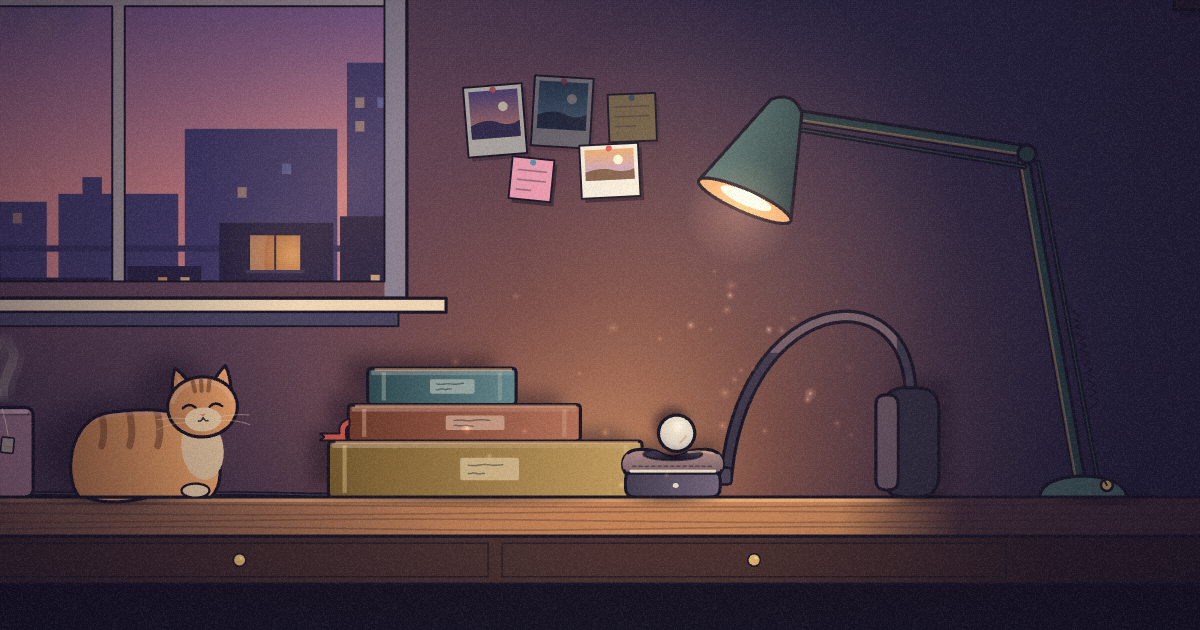
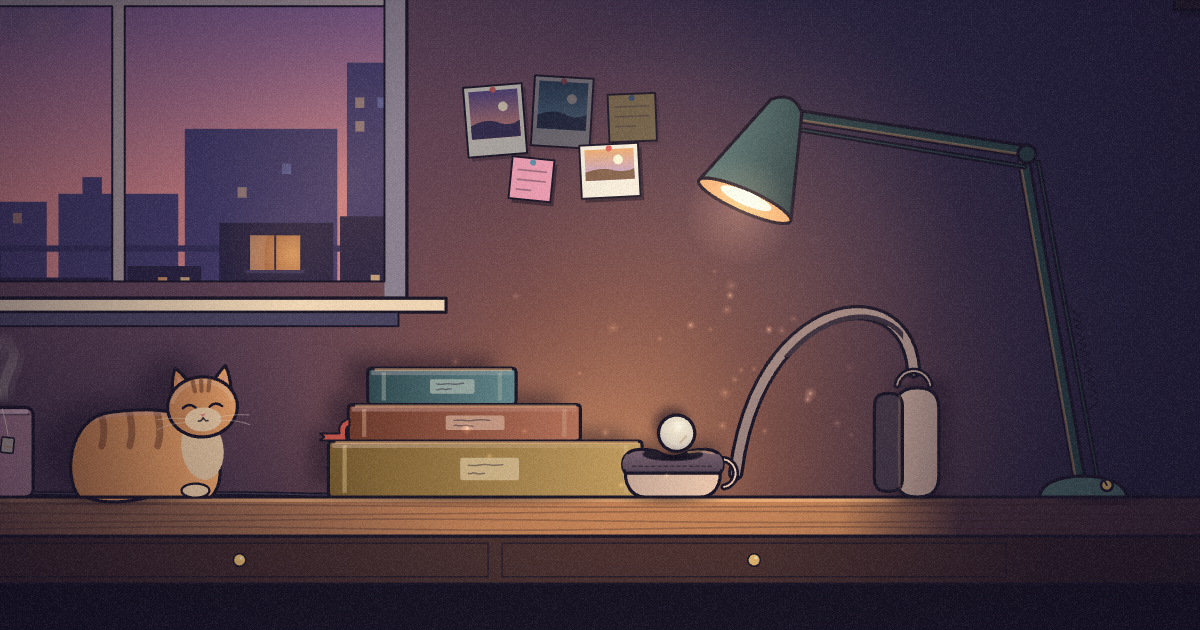
Soft Lamp: the headphones redrawn as one pair
Every cold review flagged the headphones. Redrawn in the same places (the
machine unchanged): cream shells and dark pads; the near cup a shallow bowl on
its back with the ball in its pad's dark centre; the far cup a rounded shell
on its edge, lit on the lamp side; each cup in a yoke, and a padded cream band
from yoke to yoke. Share card regenerated.

Changed region(s): [[0.4933, 0.4825, 0.8017, 0.8143]]

diff --git a/apps/rube/src/shows/versions/soft-lamp/lamp/scene.ts b/apps/rube/src/shows/versions/soft-lamp/lamp/scene.ts
@@ -520,10 +520,12 @@ function cushion(t: number): number {
   return d
 }
 
-const SHELL = '#2A2638'
-const SHELL_LIT = '#7A6A80'
-const PAD = '#3F3548'
-const PAD_LIT = '#B08A86'
+// A pair of cream headphones with dark pads, as a lofi desk has: light shells that take the lamp, dark pads that frame
+// the ball.
+const SHELL = '#4A3C4C'
+const SHELL_LIT = '#EDC9AE'
+const PAD = '#2A2232'
+const PAD_LIT = '#7A6270'
 
 /** The near cup's cushion, from the side: a soft pad with rounded shoulders and a hollow between them. */
 function cushionPath(ctx: Ctx, top: number): void {
@@ -545,62 +547,100 @@ function headphones(ctx: Ctx, lw: number, t: number): void {
   const lamp = lampAt(t)
   const warm = lampColor(t)
   const top = CUP.top + cushion(t)
-  // The band: from a yoke on the near cup's far side, up in an arch, and down onto the standing cup's crown.
-  const a = { x: CUP.x + CUP.halfW + 0.02, y: CUP.top + 0.2 }
-  const b = { x: FAR_CUP.x, y: -FAR_CUP.h + 0.04 }
-  const c1 = { x: a.x + 0.12, y: BAND_TOP - 0.18 }
-  const c2 = { x: b.x - 0.02, y: BAND_TOP - 0.34 }
+  const l = lightAt(CUP.x, -0.15) * lamp
+  // Cream reads as cream even at the pool's edge: the room's light on it, then the lamp's.
+  const shell = (k: number) => lit(SHELL, SHELL_LIT, Math.min(1, 0.32 * Math.max(0.4, lamp) + 0.75 * k))
+  // Each cup hangs in a yoke, a fork round its middle, and the band runs from yoke to yoke.
+  const w = CUP.halfW * 0.94
+  const nearYoke = { x: CUP.x + w + 0.01, y: CUP.top + 0.17, r: 0.1 }
+  const fx = FAR_CUP.x
+  const fw = FAR_CUP.halfW
+  const fh = FAR_CUP.h
+  const farYoke = { x: fx + 0.02, y: -fh, r: 0.12 }
+  const a = { x: nearYoke.x + nearYoke.r, y: nearYoke.y }
+  const b = { x: farYoke.x, y: farYoke.y - farYoke.r }
+  const c1 = { x: a.x + 0.16, y: BAND_TOP - 0.18 }
+  const c2 = { x: b.x - 0.04, y: BAND_TOP - 0.32 }
   const band = () => {
     ctx.beginPath()
     ctx.moveTo(a.x, a.y)
     ctx.bezierCurveTo(c1.x, c1.y, c2.x, c2.y, b.x, b.y)
   }
+  // The band: a cream arch, its padding a dark strip along its underside.
+  const bl = lightAt((a.x + b.x) / 2, BAND_TOP, 0) * lamp
   band()
-  ctx.lineWidth = 0.1
+  ctx.lineWidth = 0.11
   ctx.strokeStyle = INK
   ctx.stroke()
   band()
-  ctx.lineWidth = 0.1 - lw * 2
-  ctx.strokeStyle = lit(SHELL, SHELL_LIT, lightAt((a.x + b.x) / 2, BAND_TOP, 0) * lamp * 0.7)
+  ctx.lineWidth = 0.11 - lw * 2
+  ctx.strokeStyle = shell(bl * 0.8 + 0.1)
   ctx.stroke()
-  // The padding along the top of the arch.
   ctx.save()
+  ctx.translate(0.025, 0.03)
   ctx.beginPath()
-  ctx.rect(a.x + 0.25, BAND_TOP - 1, b.x - a.x - 0.35, 1.25)
+  ctx.rect(a.x + 0.2, BAND_TOP - 1, b.x - a.x - 0.3, 1.25)
   ctx.clip()
   band()
-  ctx.lineWidth = 0.05
-  ctx.strokeStyle = lit(PAD, PAD_LIT, lightAt(a.x + 0.6, BAND_TOP) * lamp * 0.8)
+  ctx.lineWidth = 0.035
+  ctx.strokeStyle = lit(PAD, PAD_LIT, bl * 0.8)
   ctx.stroke()
   ctx.restore()
-  // The far cup, on its edge: the shell away from us, the cushion toward the near cup.
-  const fx = FAR_CUP.x
-  const fw = FAR_CUP.halfW
-  const fh = FAR_CUP.h
-  roundRect(ctx, fx - fw, -fh, fw * 2, fh, 0.16)
-  ctx.fillStyle = lit(SHELL, SHELL_LIT, lightAt(fx, -fh / 2) * lamp * 0.8)
+  // A yoke: a fork round the cup's middle, its arm out to the band.
+  const yoke = (y: { x: number; y: number; r: number }, from: number, to: number, k: number) => {
+    ctx.beginPath()
+    ctx.arc(y.x, y.y, y.r, from, to)
+    ctx.lineWidth = 0.05
+    ctx.strokeStyle = INK
+    ctx.stroke()
+    ctx.lineWidth = 0.05 - lw * 1.6
+    ctx.strokeStyle = shell(k)
+    ctx.stroke()
+  }
+  // The far cup, standing on its edge, its pad toward the near one: a rounded shell, the dark pad on its near face.
+  const fl = lightAt(fx - fw, -fh / 2) * lamp
+  roundRect(ctx, fx - fw * 0.55, -fh, fw * 1.55, fh, fw * 0.75)
+  const fg = ctx.createLinearGradient(fx - fw, 0, fx + fw, 0)
+  fg.addColorStop(0, shell(fl * 0.95 + 0.15))
+  fg.addColorStop(1, shell(fl * 0.45 + 0.05))
+  ctx.fillStyle = fg
   ctx.fill()
   stroke(ctx, lw)
-  roundRect(ctx, fx - fw - 0.05, -fh + 0.05, 0.16, fh - 0.1, 0.07)
-  ctx.fillStyle = lit(PAD, PAD_LIT, lightAt(fx - fw, -fh / 2) * lamp)
+  roundRect(ctx, fx - fw - 0.06, -fh + 0.04, 0.2, fh - 0.08, 0.09)
+  ctx.fillStyle = lit(PAD, PAD_LIT, fl * 0.9)
   ctx.fill()
   stroke(ctx, lw)
-  // The yoke on the near cup.
-  roundRect(ctx, CUP.x + CUP.halfW - 0.08, CUP.top + 0.13, 0.14, 0.12, 0.03)
-  ctx.fillStyle = lit(SHELL, SHELL_LIT, 0.4 * lamp)
-  ctx.fill()
-  stroke(ctx, lw * 0.8)
-  // The near cup's shell, lying on its back.
-  const w = CUP.halfW * 0.94
-  roundRect(ctx, CUP.x - w, CUP.top + 0.15, w * 2, -CUP.top - 0.15, 0.07)
-  const l = lightAt(CUP.x, -0.15) * lamp
+  // The lamp along its lit edge.
+  ctx.beginPath()
+  ctx.moveTo(fx - fw * 0.4, -fh + 0.06)
+  ctx.quadraticCurveTo(fx - fw * 0.55 + 0.02, -fh / 2, fx - fw * 0.4, -0.06)
+  ctx.lineWidth = 0.018
+  ctx.strokeStyle = rgba(warm, 0.6 * fl)
+  ctx.stroke()
+  yoke(farYoke, Math.PI * 1.05, Math.PI * 1.95, fl * 0.8 + 0.1)
+  // The near cup's shell, lying on its back: a shallow rounded bowl, its rim up.
+  ctx.beginPath()
+  ctx.moveTo(CUP.x - w, CUP.top + 0.15)
+  ctx.lineTo(CUP.x + w, CUP.top + 0.15)
+  ctx.bezierCurveTo(CUP.x + w + 0.01, -0.06, CUP.x + w * 0.8, 0, CUP.x + w * 0.6, 0)
+  ctx.lineTo(CUP.x - w * 0.6, 0)
+  ctx.bezierCurveTo(CUP.x - w * 0.8, 0, CUP.x - w - 0.01, -0.06, CUP.x - w, CUP.top + 0.15)
+  ctx.closePath()
   const g = ctx.createLinearGradient(CUP.x - w, 0, CUP.x + w, 0)
-  g.addColorStop(0, lit(SHELL, SHELL_LIT, l * 0.3))
-  g.addColorStop(1, lit(SHELL, SHELL_LIT, l * 0.9))
+  g.addColorStop(0, shell(l * 0.5 + 0.08))
+  g.addColorStop(1, shell(l * 0.95 + 0.12))
   ctx.fillStyle = g
   ctx.fill()
   stroke(ctx, lw)
-  // Its cushion, as pressed.
+  // The lamp along its rim.
+  ctx.beginPath()
+  ctx.moveTo(CUP.x - w * 0.3, CUP.top + 0.175)
+  ctx.lineTo(CUP.x + w - 0.04, CUP.top + 0.175)
+  ctx.lineWidth = 0.014
+  ctx.strokeStyle = rgba(warm, 0.55 * l)
+  ctx.stroke()
+  yoke(nearYoke, -Math.PI * 0.45, Math.PI * 0.45, l * 0.9 + 0.12)
+  // Its cushion, as pressed: the dark pad.
   cushionPath(ctx, top)
   const pg = ctx.createLinearGradient(0, top, 0, CUP.top + 0.17)
   pg.addColorStop(0, lit(PAD, PAD_LIT, l))
@@ -608,51 +648,32 @@ function headphones(ctx: Ctx, lw: number, t: number): void {
   ctx.fillStyle = pg
   ctx.fill()
   stroke(ctx, lw)
-  // Its face, seen a little from above: the cushion a ring round the dark speaker cloth, the ball sitting in it.
+  // Its face, seen a little from above: the pad a ring round the darker speaker cloth, the ball sitting in it.
   ctx.save()
   cushionPath(ctx, top)
   ctx.clip()
   ctx.beginPath()
   ctx.ellipse(CUP.x, top + 0.035, w * 0.62, 0.042, 0, 0, Math.PI * 2)
-  ctx.fillStyle = lit('#1E1A2A', '#4A4258', l * 0.6)
+  ctx.fillStyle = lit('#120E18', '#2E2636', l * 0.6)
   ctx.fill()
   ctx.lineWidth = lw * 0.7
   ctx.strokeStyle = rgba(INK, 0.7)
   ctx.stroke()
-  ctx.restore()
-  // What says headphones: the shell's bright rim where the cushion sits in it, a small badge on its side, and the
-  // cushion's stitched seam.
-  const metal = (k: number) => lit('#6E6A7E', '#E8D9C2', Math.min(1, l * 0.9 + k))
-  const rimY = CUP.top + 0.155
-  ctx.beginPath()
-  ctx.moveTo(CUP.x - w + 0.04, rimY)
-  ctx.lineTo(CUP.x + w - 0.04, rimY)
-  ctx.lineWidth = 0.022
-  ctx.strokeStyle = metal(0.15)
-  ctx.stroke()
-  const bx = CUP.x + 0.02
-  const by = (rimY + 0) / 2 + 0.01
-  ctx.beginPath()
-  ctx.ellipse(bx, by, 0.022, 0.018, 0, 0, Math.PI * 2)
-  ctx.fillStyle = metal(0.2)
-  ctx.fill()
-  ctx.save()
-  cushionPath(ctx, top)
-  ctx.clip()
+  // The pad's stitched seam.
   ctx.setLineDash([0.025, 0.02])
   ctx.beginPath()
-  ctx.moveTo(CUP.x - w + 0.05, rimY - 0.035)
-  ctx.lineTo(CUP.x + w - 0.05, rimY - 0.035)
+  ctx.moveTo(CUP.x - w + 0.05, CUP.top + 0.12)
+  ctx.lineTo(CUP.x + w - 0.05, CUP.top + 0.12)
   ctx.lineWidth = lw * 0.5
-  ctx.strokeStyle = rgba(INK, 0.45)
+  ctx.strokeStyle = rgba('#000000', 0.35)
   ctx.stroke()
   ctx.restore()
-  // The lamp along the cushion's far shoulder.
+  // The lamp along the pad's far shoulder.
   ctx.beginPath()
   ctx.moveTo(CUP.x + SHOULDER * 0.5, top + 0.02)
   ctx.quadraticCurveTo(CUP.x + SHOULDER + 0.06, top - 0.005, CUP.x + CUP.halfW - 0.02, top + 0.07)
   ctx.lineWidth = 0.016
-  ctx.strokeStyle = rgba(warm, 0.55 * l)
+  ctx.strokeStyle = rgba(warm, 0.45 * l)
   ctx.stroke()
 }
 
@@ -754,7 +775,7 @@ function lip(ctx: Ctx, lw: number, t: number): void {
   ctx.moveTo(cx - w + 0.05, CUP.top + 0.12)
   ctx.lineTo(cx + w - 0.05, CUP.top + 0.12)
   ctx.lineWidth = lw * 0.5
-  ctx.strokeStyle = rgba(INK, 0.45)
+  ctx.strokeStyle = rgba('#000000', 0.35)
   ctx.stroke()
   ctx.restore()
 }

diff --git a/apps/rube/src/shows/versions/soft-lamp/SOFTLAMP.md b/apps/rube/src/shows/versions/soft-lamp/SOFTLAMP.md
@@ -1113,6 +1113,16 @@ Not taken: the cat's half-lidded eyes (a taste), the mug away for its refill.
      the ring now: everything of the cushion in front of the hollow's near edge, the full width of the cup, down to just
      above the shell's bright rim, the hollow's edge and the seam drawn on it. The ball sits down in the dark.
 
+### The sixty-seventh pass: a pair of headphones
+
+180. **Every cold review put the headphones first or near it**, and a fifth said what the earlier patches had not fixed:
+     two unmatched dark shapes (a pincushion on a box, a black slab standing on edge) and a band leaving one from its
+     corner, a hose. Redrawn as one pair, in the same places so the machine is unchanged: cream shells and dark pads,
+     as lofi desks have them; the near cup a shallow bowl lying on its back, its dark pad a ring round the speaker cloth
+     with the ball in it; the far cup a rounded shell on its edge, its pad toward the near one, its lamp side lit; each
+     cup in a yoke, a fork round its middle, and the cream band, padded underneath, from yoke to yoke. The cream takes
+     the lamp, so the far cup is no longer a dark hole in the pool of light. The drawer line and the badge are gone.
+
 **Subtracted:** the moth's shadow (four reviewers read it as a stain); the face's drips; the band's slider strip;
 twenty-three moments in the director's cut (sixteen thinking pauses, two trains, two crossings, five
 headlights); the near lights, out-of-focus bulbs across the frame's top corners (flat discs on the wall); the second chin scratch (to make room for the face in the mist); the tea bag dunked by its tag (the hand's first idea); the light cone; the ball's ink mark; the cup of pencils; the pages turning on each track (considered and not built: the page is the notebook's
